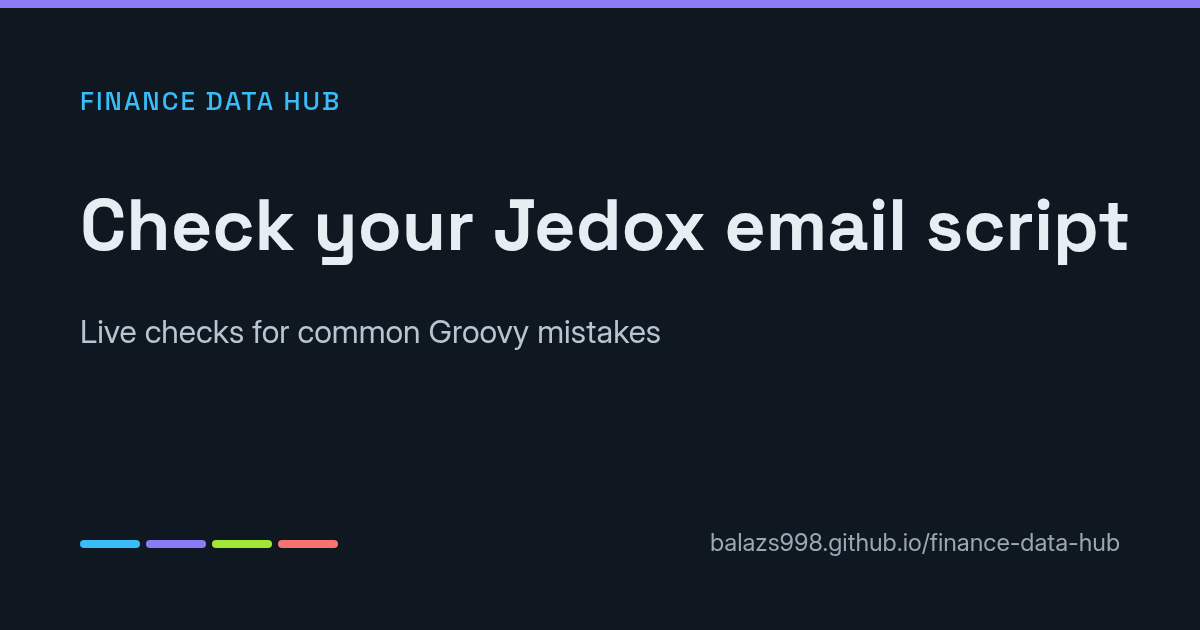
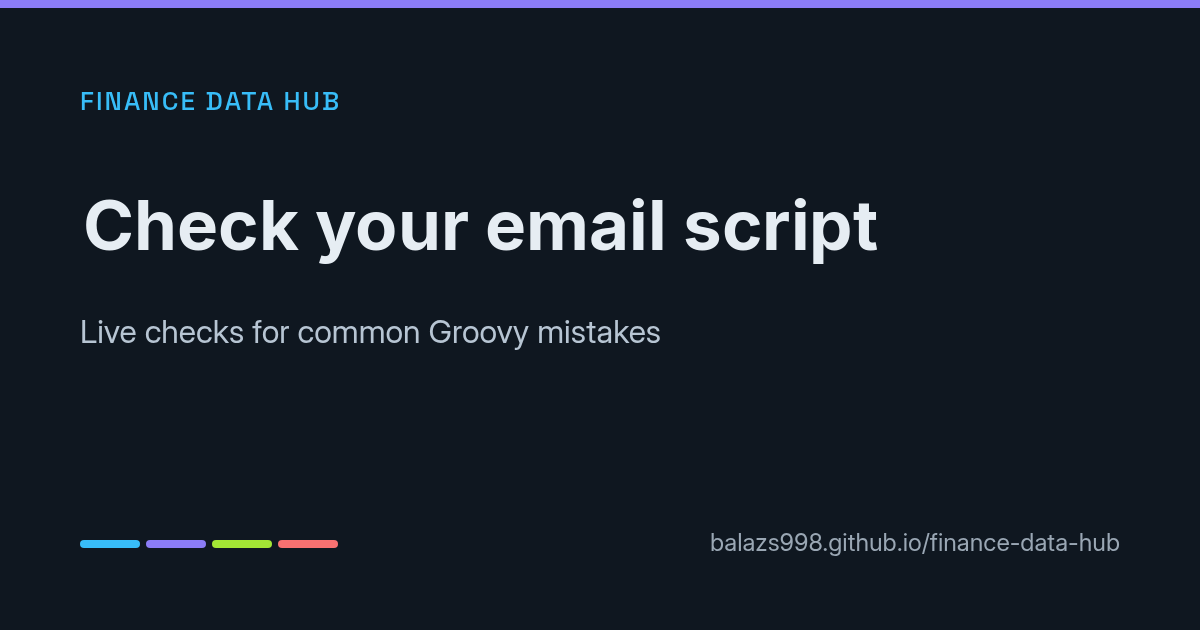
Show the preview focus ring on the frame wrapper and match the signed-off wording.
The ring follows focus inside the email preview. The checker card and job hint use the page title and button labels, query-history lookups ask for MONITOR, and the plan view sets JEDOX_ETL_WH before CREATE VIEW in the file and on the page.

Changed region(s): [[0.0617, 0.3016, 0.9558, 0.4222]]

diff --git a/docs/stylesheets/email-tool.css b/docs/stylesheets/email-tool.css
@@ -519,9 +519,9 @@ body:has(#email-builder) .md-header__title {
   background: #f3f6f9;
 }
 
-#email-frame:focus,
-#email-frame:focus-visible,
-#email-frame:focus-within {
+/* The preview focus lands inside the iframe, so the ring goes on the
+   wrapper. #38BDF8 is the site link color. */
+.email-frame-wrap:focus-within {
   outline: 2px solid #38BDF8;
   outline-offset: 2px;
 }

diff --git a/docs/jedox/automated-value-emails.md b/docs/jedox/automated-value-emails.md
@@ -6,6 +6,8 @@ social_image: automated-value-emails.png
 
 # Automated value emails from Jedox Integrator with a generic Groovy template
 
+<p class="post-meta">Jedox</p>
+
 Every month somebody exports a report, cuts it into one piece per cost center and emails each owner their numbers. This post replaces that with one Integrator job. It reads Budget and Actual from a cube, builds a formatted email for each cost center owner and sends it.
 
 The job is built so that you rarely touch the code. Recipients live in a CSV file, the look of the email lives in an HTML file, and everything else (period, versions, subject, test mode) is a job variable.
@@ -24,9 +26,6 @@ Everything runs on the site's made-up sample data: 10 cost centers and 8 account
 
 There's no mail component in Integrator. You send email from a **Groovy job**, using the mailer the job API gives you:
 
-!!! info "Job or function?"
-    Integrator runs Groovy in two places. A Groovy **job** is a job of its own, which you can run directly or call from another job. It can run extracts and loads, read job variables and send email, and the value-email script in this post is one. A Groovy **function** sits inside a transform, calculates a value for each row, and returns it. If you're building the email script from this post, choose a job.
-
 ```groovy
 def mailer = API.getMailer()
 mailer.addRecipient('owner.cc4010@example.com')
@@ -35,6 +34,9 @@ mailer.setHtmlMessage(html)
 mailer.send()
 mailer.reset() // clear recipients, subject and body before the next email
 ```
+
+!!! info "Job or function?"
+    Integrator runs Groovy in two places. A Groovy **job** is a job of its own, which you can run directly or call from another job. It can run extracts and loads, read job variables and send email, and the value-email script in this post is one. A Groovy **function** sits inside a transform, calculates a value for each row, and returns it. If you're building the email script from this post, choose a job.
 
 `addCcRecipient` and `addBccRecipient` work the same way as `addRecipient`. `addAttachment(filename)` attaches a file. The docs don't say which folder a relative path starts from, so check in your Integrator (or use `API.getLocalFilesDir()`).
 

diff --git a/docs/jedox/snowflake-to-jedox.md b/docs/jedox/snowflake-to-jedox.md
@@ -6,6 +6,8 @@ social_image: snowflake-to-jedox.png
 
 # From Snowflake to Jedox: a rerun-safe actuals load with Integrator
 
+<p class="post-meta">Snowflake · Jedox</p>
+
 Most finance teams keep their actuals in a warehouse and do their planning in a separate tool. This post connects the two. We'll pull monthly actuals out of Snowflake and load them into a Jedox planning cube, in a way you can rerun as often as you like without leaving stale numbers behind.
 
 Everything here runs on made-up sample data: 10 cost centers, 8 accounts, and twelve months of Budget and eleven of Actual for fiscal year 2026 (October 2025 to September 2026). You can download the files below and follow along.
@@ -218,10 +220,10 @@ In Jedox, read the same total for `Actual` and `2026-03` at the top of `CostCent
 
 Then run the job a second time. The totals shouldn't change. If they double, the load is adding instead of replacing. If an old value survives, the clear step isn't covering the slice.
 
-And in Snowflake, you can see every query the job ran in the last 7 days. Run this as SYSADMIN, which owns the warehouse and can see the service user's queries:
+And in Snowflake, you can see every query the job ran in the last 7 days. Run this as a role with MONITOR on the warehouse:
 
 ```sql
-USE ROLE SYSADMIN;
+-- a role with MONITOR on the warehouse
 SELECT start_time, query_text, total_elapsed_time
 FROM TABLE(FDH_DEMO.INFORMATION_SCHEMA.QUERY_HISTORY_BY_WAREHOUSE(WAREHOUSE_NAME => 'JEDOX_ETL_WH', END_TIME_RANGE_START => DATEADD('day', -7, CURRENT_TIMESTAMP()), RESULT_LIMIT => 10000))
 WHERE query_tag = 'jedox_actuals_load'

diff --git a/docs/jedox/relational-extracts.md b/docs/jedox/relational-extracts.md
@@ -6,6 +6,8 @@ social_image: relational-extracts.png
 
 # Relational extract: table setup or your own SQL?
 
+<p class="post-meta">Snowflake · Jedox</p>
+
 Jedox Integrator gives you two ways to read rows from Snowflake. The **RelationalTable extract** lets you point at a table or view and click your columns, filters and grouping together. The **Relational extract** lets you write the SELECT yourself.
 
 A common belief is that the point-and-click version pulls the whole table into Jedox and filters there. It doesn't. Both run their filters in Snowflake. The real difference is how much SQL you're allowed to use.
@@ -104,7 +106,7 @@ Both extracts use the `SNOWFLAKE_DEMO` connection and feed the same Cube Load in
     The RelationalTable extract doesn't download the table. It turns your columns, filters and grouping into a SELECT with WHERE, GROUP BY and HAVING, and Snowflake runs it. You can see this yourself. Run both extracts, then look them up in query history (the launch post's lookup plus a row count):
 
     ```sql
-    USE ROLE SYSADMIN;
+    -- a role with MONITOR on the warehouse
     SELECT start_time, query_text, rows_produced, total_elapsed_time
     FROM TABLE(FDH_DEMO.INFORMATION_SCHEMA.QUERY_HISTORY_BY_WAREHOUSE(WAREHOUSE_NAME => 'JEDOX_ETL_WH', END_TIME_RANGE_START => DATEADD('day', -7, CURRENT_TIMESTAMP()), RESULT_LIMIT => 10000))
     WHERE query_tag = 'jedox_actuals_load'

diff --git a/docs/snowflake/plan-vs-actuals.md b/docs/snowflake/plan-vs-actuals.md
@@ -6,6 +6,8 @@ social_image: plan-vs-actuals.png
 
 # Plan vs. actuals in Snowflake SQL, without losing rows
 
+<p class="post-meta">Snowflake</p>
+
 A variance report has one job: show every euro that's in the budget or in the actuals. The most common way it fails is quiet. Somebody joins actuals to budget with a `LEFT JOIN` or an inner join, the report looks fine, and the rows that exist on only one side vanish.
 
 This post builds the variance the safe way, using the site's made-up sample data: 10 cost centers and 8 accounts. Budget covers October 2025 to September 2026 and Actual covers October 2025 to August 2026.
@@ -26,7 +28,7 @@ Never join two fact tables at posting level. If a cell has three actual postings
 ```sql
 USE ROLE SYSADMIN;
 USE SCHEMA FDH_DEMO.SAMPLE;
-USE WAREHOUSE <your warehouse>;
+USE WAREHOUSE JEDOX_ETL_WH;
 
 WITH budget AS (
     SELECT cost_center, account, period, SUM(amount) AS budget
@@ -53,6 +55,9 @@ SELECT COUNT(*) FROM budget; -- 696 cells
 
 ```sql
 USE ROLE SYSADMIN;
+USE SCHEMA FDH_DEMO.SAMPLE;
+USE WAREHOUSE JEDOX_ETL_WH;
+
 CREATE OR REPLACE VIEW V_PLAN_VS_ACTUAL AS
 WITH budget AS (
     SELECT cost_center, account, period, SUM(amount) AS budget

diff --git a/docs/jedox/email-checker.md b/docs/jedox/email-checker.md
@@ -8,6 +8,8 @@ hide:
 
 # Check your email script
 
+<p class="post-meta">Jedox</p>
+
 Paste or type your Groovy script. It checks as you type, and nothing leaves your browser.
 { .email-lead }
 
@@ -23,7 +25,7 @@ Paste or type your Groovy script. It checks as you type, and nothing leaves your
 <button type="button" class="email-seg-btn is-on" role="radio" aria-checked="true" data-script-type="job">Groovy job</button>
 <button type="button" class="email-seg-btn" role="radio" aria-checked="false" data-script-type="function">Groovy function</button>
 </div>
-<p class="email-type-hint" id="script-type-hint">Pick <strong>Job</strong> if the script runs as its own job, like the value-email script. Pick <strong>Function</strong> if it calculates a value for each row inside a transform.</p>
+<p class="email-type-hint" id="script-type-hint">Pick <strong>Groovy job</strong> if the script runs as its own job, like the value-email script. Pick <strong>Groovy function</strong> if it calculates a value for each row inside a transform.</p>
 </div>
 <div class="email-grid email-grid-checker">
 <div class="email-editor-column">

diff --git a/docs/snowflake/month-end-actuals.md b/docs/snowflake/month-end-actuals.md
@@ -5,7 +5,7 @@ description: "Build month-end P&L actuals in Snowflake SQL: closed periods only,
 
 # Month-end actuals
 
-<p class="post-meta">Snowflake · Intermediate</p>
+<p class="post-meta">Snowflake</p>
 
 If your September total grows every time the loader reruns, or revenue shows up negative in the pack, this query fixes both. You need actuals after the books close, at a grain you can drop into Excel or Jedox, and a raw journal extract is where double counts and negative revenue come from. The script on this page is the extract to start from.
 

diff --git a/docs/jedox/email-builder.md b/docs/jedox/email-builder.md
@@ -8,6 +8,8 @@ hide:
 
 # Create your own email
 
+<p class="post-meta">Jedox</p>
+
 Fill in the form, watch the email build, then download a tested Groovy script. Nothing you type leaves your browser.
 { .email-lead }
 
